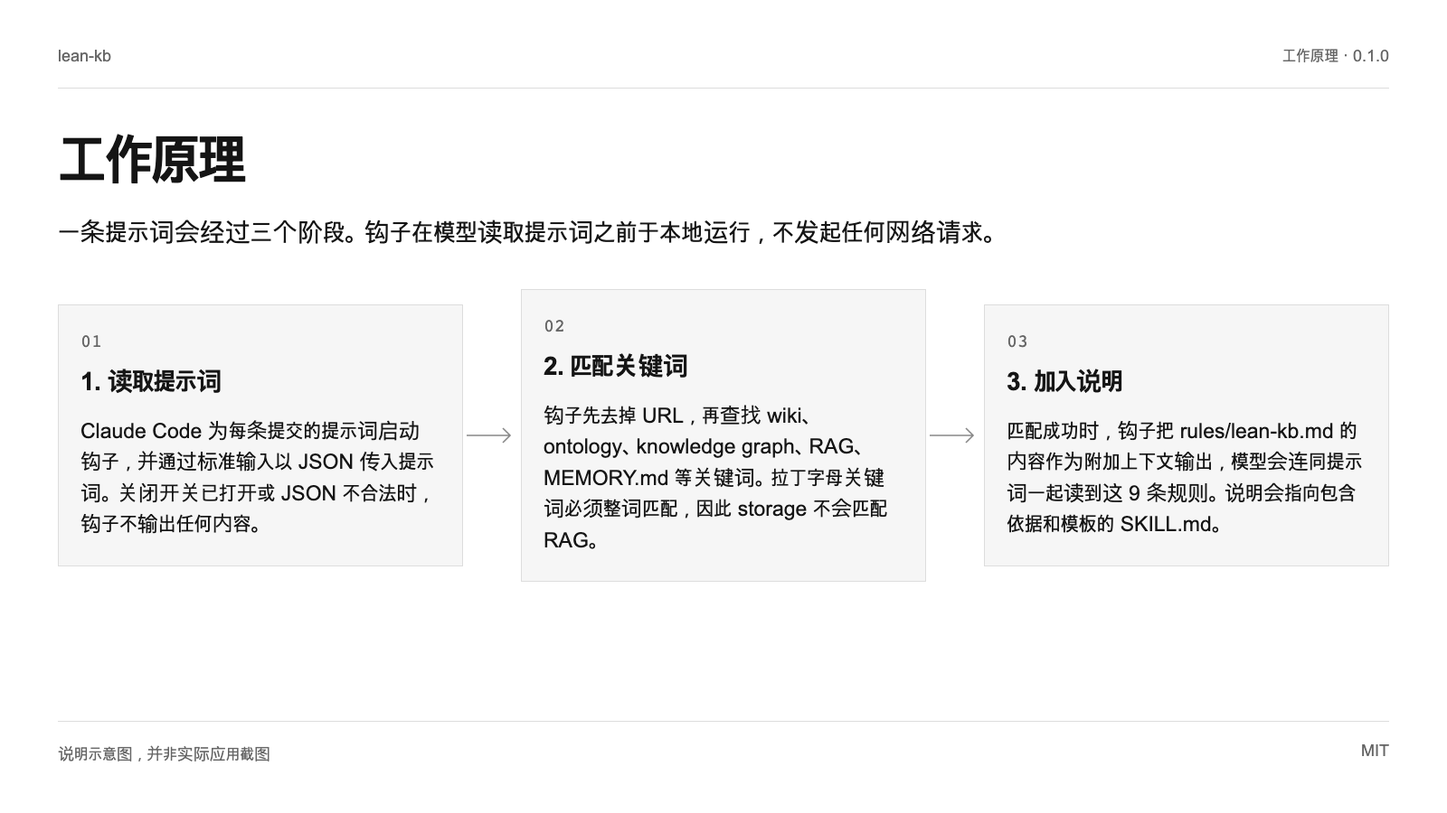
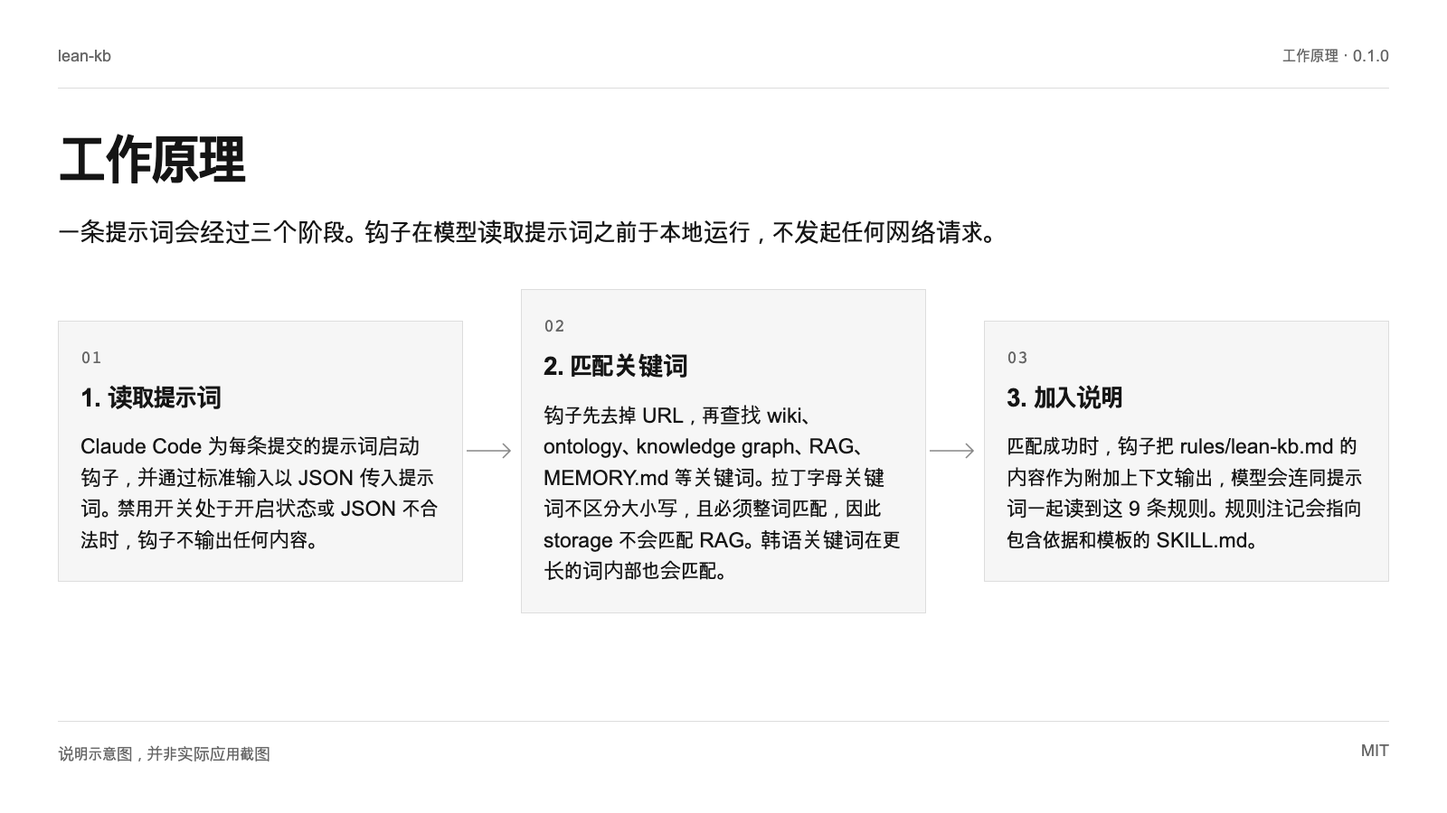
fix: apply the independent review to the hook and the documents
Why: a reviewer that did not write the files found these defects.
- The hook matched a keyword inside a host notification block.
- Plural keywords such as "wikis" did not match.
- The rule 2 row mixed two tests with different conditions.
- The rule 7 row said "measured", but the talk only simulated it.
- The note said that it does not reach subagents. That is not tested.
- The project flag file had no test.

Changed region(s): [[0.0312, 0.4356, 0.3125, 0.6844], [0.6562, 0.4044, 0.9375, 0.6844], [0.375, 0.5911, 0.625, 0.7156]]

diff --git a/assets/showcase.html b/assets/showcase.html
@@ -1,3 +1,3 @@
 <!doctype html><html lang="en"><head><meta charset="utf-8"><title>lean-kb · GitHub showcase</title><style>
 *{box-sizing:border-box}body{margin:0;background:#eee;color:#151515;font-family:Arial,"Noto Sans CJK KR","Apple SD Gothic Neo","Hiragino Kaku Gothic ProN","PingFang SC",sans-serif}.board{background:#fff;position:relative;overflow:hidden;margin:24px auto;display:flex;flex-direction:column;padding:52px 64px}.wide{width:1600px;height:900px}.og{width:1200px;height:630px;padding:36px 48px}.square{width:1200px;height:1200px;padding:52px 64px}header,footer{display:flex;justify-content:space-between;gap:24px;color:#666;font-size:18px}header{padding-bottom:24px;border-bottom:1px solid #ddd}footer{margin-top:auto;padding-top:22px;border-top:1px solid #ddd}main{padding-top:42px}h1,h2,h3,p{margin:0;overflow-wrap:anywhere;word-break:normal}h1{font-size:86px;letter-spacing:-3px;line-height:1.12}h2{font-size:62px;letter-spacing:-2px;line-height:1.22}h3{font-size:30px;line-height:1.3;letter-spacing:-.5px}.lead{margin-top:26px;font-size:34px;line-height:1.45;max-width:1350px}.features{display:grid;grid-template-columns:repeat(3,1fr);gap:40px;margin-top:58px}.feature{padding-top:24px;border-top:1px solid #bbb}.feature small,.flow small{font-family:monospace;font-size:20px;color:#666}.feature h3{margin-top:12px}.feature p{margin-top:16px;font-size:23px;line-height:1.55}.intro{margin-top:22px;font-size:28px;line-height:1.45;max-width:1350px}.flow{display:grid;grid-template-columns:1fr 64px 1fr 64px 1fr;align-items:center;margin-top:42px}.flow section{min-height:288px;padding:28px 24px;background:#f6f6f6;border:1px solid #ddd}.flow h3{margin-top:16px;font-size:28px}.flow p{margin-top:18px;font-size:23px;line-height:1.5}.flow.parallel{grid-template-columns:repeat(3,1fr);gap:36px}.arrow{width:64px;color:#888}.og main{padding-top:34px}.og h1{font-size:70px}.og .lead{font-size:28px;margin-top:22px}.og-benefits{display:flex;gap:26px;flex-wrap:wrap;margin-top:38px;font-size:21px}.og-benefits span{padding-top:12px;border-top:1px solid #aaa}.og header,.og footer{font-size:15px}.square main{padding-top:52px}.index{font:22px monospace;color:#666}.square h2{margin-top:30px;font-size:66px}.gallery-lead{font-size:34px;line-height:1.55;margin-top:28px}.detail{margin-top:44px;padding:30px;background:#f6f6f6;border:1px solid #ddd}.detail h3{font-size:30px}.detail p{font-size:28px;line-height:1.55;margin-top:18px}.source{font:18px monospace;color:#666;margin-top:32px}footer span{white-space:nowrap}html:lang(ko) :is(h1,h2,h3,p){word-break:keep-all;overflow-wrap:break-word}
-</style></head><body><article class="board wide hero" data-board="hero"><header><span>lean-kb</span><span>Why use it · 0.1.0</span></header><main><h1>lean-kb</h1><p class="lead">A Claude Code hook and skill that adds nine knowledge-base design rules to the context when a prompt names a wiki, an ontology, or a RAG index.</p><div class="features"><section class="feature"><small>01</small><h3>The rules arrive when the task starts</h3><p>The hook reads each prompt. If it names a wiki, an ontology, a knowledge graph, a RAG index, or a memory index, the hook adds a nine-rule note to the context. For other prompts it prints nothing.</p></section><section class="feature"><small>02</small><h3>Each rule shows its evidence and its limits</h3><p>SKILL.md has one table row for each rule: the result in the talk, the scope, and a status. Two of the nine rules are marked as inference. The gate fails when a document states a measured number that is not in evidence/facts.md.</p></section><section class="feature"><small>03</small><h3>Small, local, and easy to turn off</h3><p>The hook uses only the Python standard library. It uses no network, writes no file, and does not log the prompt. It always exits with code 0. One environment variable or one flag file turns it off.</p></section></div></main><footer>Explanatory diagram, not an application screenshot<span>MIT</span></footer></article><article class="board wide architecture" data-board="architecture"><header><span>lean-kb</span><span>How it works · 0.1.0</span></header><main><h2>How it works</h2><p class="intro">One prompt passes three stages. The hook runs locally before the model reads the prompt. It makes no network call.</p><div class="flow "><section><small>01</small><h3>1. Read the prompt</h3><p>Claude Code starts the hook for each submitted prompt and passes the prompt as JSON on standard input. If a disable switch is on, or the input is not valid JSON, the hook prints nothing.</p></section><svg class="arrow" viewBox="0 0 80 40" aria-hidden="true"><path d="M5 20H65M55 10L65 20L55 30" fill="none" stroke="currentColor" stroke-width="2"/></svg><section><small>02</small><h3>2. Match the keywords</h3><p>The hook removes URLs and then looks for a keyword such as wiki, ontology, knowledge graph, RAG, or MEMORY.md. A Latin keyword must be a full word, so the word storage does not match RAG.</p></section><svg class="arrow" viewBox="0 0 80 40" aria-hidden="true"><path d="M5 20H65M55 10L65 20L55 30" fill="none" stroke="currentColor" stroke-width="2"/></svg><section><small>03</small><h3>3. Add the note</h3><p>On a match, the hook prints the text of rules/lean-kb.md as additional context. The model reads the nine rules with the prompt. The note points to SKILL.md for the evidence and the templates.</p></section></div></main><footer>Explanatory diagram, not an application screenshot<span>MIT</span></footer></article><article class="board og" data-board="og"><header><span>lean-kb</span><span>Why use it · 0.1.0</span></header><main><h1>lean-kb</h1><p class="lead">A Claude Code hook and skill that adds nine knowledge-base design rules to the context when a prompt names a wiki, an ontology, or a RAG index.</p><div class="og-benefits"><span>The rules arrive when the task starts</span><span>Each rule shows its evidence and its limits</span><span>Small, local, and easy to turn off</span></div></main><footer>Explanatory diagram, not an application screenshot<span>MIT</span></footer></article><article class="board square gallery g1" data-board="gallery-1"><header><span>lean-kb</span><span>Why use it · 0.1.0</span></header><main><small class="index">01 / 03</small><h2>The rules arrive when the task starts</h2><p class="gallery-lead">The hook reads each prompt. If it names a wiki, an ontology, a knowledge graph, a RAG index, or a memory index, the hook adds a nine-rule note to the context. For other prompts it prints nothing.</p><div class="detail"><h3>1. Read the prompt</h3><p>Claude Code starts the hook for each submitted prompt and passes the prompt as JSON on standard input. If a disable switch is on, or the input is not valid JSON, the hook prints nothing.</p></div><p class="source">ev-hook-match · ev-hook-main · ev-note</p></main><footer>Explanatory diagram, not an application screenshot<span>MIT</span></footer></article><article class="board square gallery g2" data-board="gallery-2"><header><span>lean-kb</span><span>Why use it · 0.1.0</span></header><main><small class="index">02 / 03</small><h2>Each rule shows its evidence and its limits</h2><p class="gallery-lead">SKILL.md has one table row for each rule: the result in the talk, the scope, and a status. Two of the nine rules are marked as inference. The gate fails when a document states a measured number that is not in evidence/facts.md.</p><div class="detail"><h3>2. Match the keywords</h3><p>The hook removes URLs and then looks for a keyword such as wiki, ontology, knowledge graph, RAG, or MEMORY.md. A Latin keyword must be a full word, so the word storage does not match RAG.</p></div><p class="source">ev-rules-table · ev-gate · ev-numbers · ev-facts</p></main><footer>Explanatory diagram, not an application screenshot<span>MIT</span></footer></article><article class="board square gallery g3" data-board="gallery-3"><header><span>lean-kb</span><span>Why use it · 0.1.0</span></header><main><small class="index">03 / 03</small><h2>Small, local, and easy to turn off</h2><p class="gallery-lead">The hook uses only the Python standard library. It uses no network, writes no file, and does not log the prompt. It always exits with code 0. One environment variable or one flag file turns it off.</p><div class="detail"><h3>3. Add the note</h3><p>On a match, the hook prints the text of rules/lean-kb.md as additional context. The model reads the nine rules with the prompt. The note points to SKILL.md for the evidence and the templates.</p></div><p class="source">ev-hook-contract · ev-hook-disable · ev-test</p></main><footer>Explanatory diagram, not an application screenshot<span>MIT</span></footer></article></body></html>
+</style></head><body><article class="board wide hero" data-board="hero"><header><span>lean-kb</span><span>Why use it · 0.1.0</span></header><main><h1>lean-kb</h1><p class="lead">A Claude Code hook and skill that adds nine knowledge-base design rules to the context when a prompt names a wiki, an ontology, or a RAG index.</p><div class="features"><section class="feature"><small>01</small><h3>The rules arrive when the task starts</h3><p>The hook reads each prompt. If it names a wiki, an ontology, a knowledge graph, a RAG index, or a memory index, the hook adds a nine-rule note to the context. For other prompts it prints nothing.</p></section><section class="feature"><small>02</small><h3>Each rule shows its evidence and its limits</h3><p>SKILL.md has one table row for each rule: the result in the talk, the scope, and a status. Two of the nine rules are marked as inference. The gate fails when a document states a measured number that is not in evidence/facts.md.</p></section><section class="feature"><small>03</small><h3>Small, local, and easy to turn off</h3><p>The hook uses only the Python standard library. It uses no network, writes no file, and does not log the prompt. It always exits with code 0. One environment variable or one flag file turns it off.</p></section></div></main><footer>Explanatory diagram, not an application screenshot<span>MIT</span></footer></article><article class="board wide architecture" data-board="architecture"><header><span>lean-kb</span><span>How it works · 0.1.0</span></header><main><h2>How it works</h2><p class="intro">One prompt passes three stages. The hook runs locally before the model reads the prompt. It makes no network call.</p><div class="flow "><section><small>01</small><h3>1. Read the prompt</h3><p>Claude Code starts the hook for each submitted prompt and passes the prompt as JSON on standard input. If a disable switch is on, or the input is not valid JSON, the hook prints nothing.</p></section><svg class="arrow" viewBox="0 0 80 40" aria-hidden="true"><path d="M5 20H65M55 10L65 20L55 30" fill="none" stroke="currentColor" stroke-width="2"/></svg><section><small>02</small><h3>2. Match the keywords</h3><p>The hook removes URLs and then looks for a keyword such as wiki, ontology, knowledge graph, RAG, or MEMORY.md. A Latin keyword must be a full word and the match ignores case, so the word storage does not match RAG. A Korean keyword also matches inside a longer word.</p></section><svg class="arrow" viewBox="0 0 80 40" aria-hidden="true"><path d="M5 20H65M55 10L65 20L55 30" fill="none" stroke="currentColor" stroke-width="2"/></svg><section><small>03</small><h3>3. Add the note</h3><p>On a match, the hook prints the text of rules/lean-kb.md as additional context. The model reads the nine rules with the prompt. The note points to SKILL.md for the evidence and the templates.</p></section></div></main><footer>Explanatory diagram, not an application screenshot<span>MIT</span></footer></article><article class="board og" data-board="og"><header><span>lean-kb</span><span>Why use it · 0.1.0</span></header><main><h1>lean-kb</h1><p class="lead">A Claude Code hook and skill that adds nine knowledge-base design rules to the context when a prompt names a wiki, an ontology, or a RAG index.</p><div class="og-benefits"><span>The rules arrive when the task starts</span><span>Each rule shows its evidence and its limits</span><span>Small, local, and easy to turn off</span></div></main><footer>Explanatory diagram, not an application screenshot<span>MIT</span></footer></article><article class="board square gallery g1" data-board="gallery-1"><header><span>lean-kb</span><span>Why use it · 0.1.0</span></header><main><small class="index">01 / 03</small><h2>The rules arrive when the task starts</h2><p class="gallery-lead">The hook reads each prompt. If it names a wiki, an ontology, a knowledge graph, a RAG index, or a memory index, the hook adds a nine-rule note to the context. For other prompts it prints nothing.</p><div class="detail"><h3>1. Read the prompt</h3><p>Claude Code starts the hook for each submitted prompt and passes the prompt as JSON on standard input. If a disable switch is on, or the input is not valid JSON, the hook prints nothing.</p></div><p class="source">ev-hook-match · ev-hook-main · ev-note</p></main><footer>Explanatory diagram, not an application screenshot<span>MIT</span></footer></article><article class="board square gallery g2" data-board="gallery-2"><header><span>lean-kb</span><span>Why use it · 0.1.0</span></header><main><small class="index">02 / 03</small><h2>Each rule shows its evidence and its limits</h2><p class="gallery-lead">SKILL.md has one table row for each rule: the result in the talk, the scope, and a status. Two of the nine rules are marked as inference. The gate fails when a document states a measured number that is not in evidence/facts.md.</p><div class="detail"><h3>2. Match the keywords</h3><p>The hook removes URLs and then looks for a keyword such as wiki, ontology, knowledge graph, RAG, or MEMORY.md. A Latin keyword must be a full word and the match ignores case, so the word storage does not match RAG. A Korean keyword also matches inside a longer word.</p></div><p class="source">ev-rules-table · ev-gate · ev-numbers · ev-facts</p></main><footer>Explanatory diagram, not an application screenshot<span>MIT</span></footer></article><article class="board square gallery g3" data-board="gallery-3"><header><span>lean-kb</span><span>Why use it · 0.1.0</span></header><main><small class="index">03 / 03</small><h2>Small, local, and easy to turn off</h2><p class="gallery-lead">The hook uses only the Python standard library. It uses no network, writes no file, and does not log the prompt. It always exits with code 0. One environment variable or one flag file turns it off.</p><div class="detail"><h3>3. Add the note</h3><p>On a match, the hook prints the text of rules/lean-kb.md as additional context. The model reads the nine rules with the prompt. The note points to SKILL.md for the evidence and the templates.</p></div><p class="source">ev-hook-contract · ev-hook-disable · ev-test</p></main><footer>Explanatory diagram, not an application screenshot<span>MIT</span></footer></article></body></html>

diff --git a/hooks/lean_kb_hook.py b/hooks/lean_kb_hook.py
@@ -23,7 +23,8 @@ import sys
 KEYWORDS = (
     "온톨로지", "위키", "지식 그래프", "지식그래프", "지식 베이스", "지식베이스",
     "세컨드 브레인", "기억 목차", "메모리 목차",
-    "ontology", "wiki", "knowledge graph", "knowledge base", "second brain",
+    "ontology", "ontologies", "wiki", "wikis", "knowledge graph", "knowledge graphs",
+    "knowledge base", "knowledge bases", "second brain",
     "MEMORY.md", "RAG",
 )
 # No note for a shell escape, or for a note that a side agent adds (not a user request).
@@ -31,6 +32,8 @@ KEYWORDS = (
 EXCLUDE = re.compile(r"^\s*(?:!|Here is a note offered by a side agent)")
 
 URL = re.compile(r"(?:https?://|www\.)\S+", re.IGNORECASE)
+# Text that the host adds around a prompt is not a user request.
+HOST_BLOCK = re.compile(r"<(task-notification|system-reminder)>.*?</\1>", re.DOTALL)
 
 
 def _is_latin(word):
@@ -54,9 +57,10 @@ def matches(prompt):
     """True when the prompt asks for knowledge-base work."""
     if not isinstance(prompt, str) or not prompt.strip():
         return False
-    if EXCLUDE.search(prompt):
+    text = HOST_BLOCK.sub(" ", prompt)
+    if EXCLUDE.search(text):
         return False
-    return PATTERN.search(URL.sub(" ", prompt)) is not None
+    return PATTERN.search(URL.sub(" ", text)) is not None
 
 
 def disabled(env):

diff --git a/README.zh.md b/README.zh.md
@@ -12,9 +12,9 @@
 
 | | |
 | --- | --- |
-| 规则在任务开始时送达 | 提示词中出现 wiki、本体、知识图谱、RAG 索引或记忆索引时，钩子把写有 9 条规则的说明加入上下文；其他提示词不输出任何内容。 |
+| 规则在任务开始时送达 | 提示词中出现 wiki、本体、知识图谱、RAG 索引或记忆索引时，钩子把写有 9 条规则的规则注记加入上下文；其他提示词不输出任何内容。 |
 | 每条规则都附有依据与局限 | SKILL.md 为每条规则列出演讲中的结果、测量范围和状态，9 条中有 2 条标注为推论。文档中若出现 evidence/facts.md 里没有的测量数值，检查脚本（gate）会失败。 |
-| 小巧、仅在本地运行、易于关闭 | 钩子只使用 Python 标准库：不访问网络，不写文件，不记录提示词，并始终以退出码 0 结束。设置一个环境变量或放置一个标志文件即可关闭。 |
+| 小巧、钩子在本地运行、易于关闭 | 钩子只使用 Python 标准库：不访问网络，不写文件，不记录提示词，并始终以退出码 0 结束。设置一个环境变量或放置一个标志文件即可关闭。 |
 
 ## 快速开始
 
@@ -36,21 +36,21 @@ printf '%s' '{"prompt":"design a wiki index"}' | python3 ~/.claude/skills/lean-k
 
 ### 1. 读取提示词
 
-Claude Code 为每条提交的提示词启动钩子，并通过标准输入以 JSON 传入提示词。关闭开关已打开或 JSON 不合法时，钩子不输出任何内容。
+Claude Code 为每条提交的提示词启动钩子，并通过标准输入以 JSON 传入提示词。禁用开关处于开启状态或 JSON 不合法时，钩子不输出任何内容。
 
 ### 2. 匹配关键词
 
-钩子先去掉 URL，再查找 wiki、ontology、knowledge graph、RAG、MEMORY.md 等关键词。拉丁字母关键词必须整词匹配，因此 storage 不会匹配 RAG。
+钩子先去掉 URL，再查找 wiki、ontology、knowledge graph、RAG、MEMORY.md 等关键词。拉丁字母关键词不区分大小写，且必须整词匹配，因此 storage 不会匹配 RAG。韩语关键词在更长的词内部也会匹配。
 
 ### 3. 加入说明
 
-匹配成功时，钩子把 rules/lean-kb.md 的内容作为附加上下文输出，模型会连同提示词一起读到这 9 条规则。说明会指向包含依据和模板的 SKILL.md。
+匹配成功时，钩子把 rules/lean-kb.md 的内容作为附加上下文输出，模型会连同提示词一起读到这 9 条规则。规则注记会指向包含依据和模板的 SKILL.md。
 
 ## 使用场景
 
 ### 规划团队 wiki 的索引
 
-当你请求设计 wiki 结构时，说明会告诉模型：页面正文放在每页一行的索引之后，规则放在始终加载的部分，并说明始终加载内容的大小。
+当你请求设计 wiki 结构时，规则注记会告诉模型：页面正文放在每页一行的索引之后，规则放在始终加载的部分，并说明始终加载内容的大小。
 
 ### 整理 Claude Code 的记忆索引
 
@@ -58,13 +58,13 @@ Claude Code 为每条提交的提示词启动钩子，并通过标准输入以 J
 
 ### 先定检查标准，再修改本体模式
 
-当你请求修改本体或知识图谱时，说明会要求：每个实体只有一个规范节点，变更的事实写成带日期的条目，并在看到结果之前先定义检查方法。规范节点这条规则在 SKILL.md 中标注为推论。
+当你请求修改本体或知识图谱时，规则注记会要求：每个实体只有一个规范节点，变更的事实写成带日期的条目，并在看到结果之前先定义检查方法。规范节点这条规则在 SKILL.md 中标注为推论。
 
 ![规则在任务开始时送达: 说明示意图，并非实际应用截图](assets/zh/gallery-1.png)
 
 ![每条规则都附有依据与局限: 说明示意图，并非实际应用截图](assets/zh/gallery-2.png)
 
-![小巧、仅在本地运行、易于关闭: 说明示意图，并非实际应用截图](assets/zh/gallery-3.png)
+![小巧、钩子在本地运行、易于关闭: 说明示意图，并非实际应用截图](assets/zh/gallery-3.png)
 
 ## 限制与隐私
 
@@ -72,19 +72,19 @@ Claude Code 为每条提交的提示词启动钩子，并通过标准输入以 J
 
 - 本项目是独立整理的摘要，不是 NAVER 的项目，也不是演讲中的 Haema 引擎。它不实现检索、去重和会话切分（rollover）。
 
-- 钩子只匹配关键词。不含关键词的知识库请求不会收到说明，这类请求所占的比例尚未测量。Obsidian、memory、CLAUDE.md、graph 更常匹配到无关的提示词，因此没有列为关键词。
+- 钩子只匹配关键词。不含关键词的知识库请求不会收到规则注记，这类请求所占的比例尚未测量。Obsidian、memory、CLAUDE.md、graph 更常匹配到无关的提示词，因此没有列为关键词。以 `!` 开头或以 side-agent 注记开头的提示词也不会收到规则注记。
 
-- 钩子不保存状态。每条匹配的提示词都会加入完整的说明，因此成本等于说明的大小乘以一次会话中匹配的提示词数量。
+- 钩子不保存状态。每条匹配的提示词都会加入完整的规则注记，因此成本等于注记的大小乘以一次会话中匹配的提示词数量。这种重复与注记中的规则 4 相悖，目前没有实现会话级去重。
 
-- 钩子在用户提交提示词时运行。子代理的提示词来自父代理，因此说明预计不会传递给子代理；这一行为尚未测试。如果把知识库工作委派出去，请把 rules/lean-kb.md 的路径交给子代理。
+- 钩子在用户提交提示词时运行。子代理的提示词来自父代理，因此规则注记预计不会传递给子代理；这一行为尚未测试。如果把知识库工作委派出去，请把 rules/lean-kb.md 的路径交给子代理。
 
 - 自测和检查脚本（gate）在 macOS 上使用 bash 和 Python 3 运行过，尚未在 Linux 和 Windows 上测试。gate 中的文体检查依赖另一个独立项目 asd-ste100 的 linter；没有它时，除非设置 LEAN_KB_SKIP_STE=1，否则该项检查会失败。
 
 ## 验证状态
 
-- **已验证运行**: 已运行钩子自测，所有用例均通过：应收到说明的提示词、不应有任何输出的提示词、两种关闭开关、规则文件缺失的情况，以及确认提示词内容不会出现在输出中的检查。
-- **已验证运行**: 主检查脚本（master gate）以退出码 0 结束。它会编译 Python 文件、运行自测、检查规则说明的大小、运行文体 linter，并将 SKILL.md 与各 README 中的测量数值同 evidence/facts.md 逐一比对。
-- **已验证运行**: 在一次使用临时设置文件的 Claude Code 会话中，wiki 提示词收到了说明，无关的提示词没有收到。这只是在一台机器上的一次运行结果。
+- **已验证运行**: 已运行钩子自测，所有用例均通过：应收到规则注记的提示词、不应有任何输出的提示词、两种关闭开关、规则文件缺失的情况，以及确认提示词内容不会出现在输出中的检查。
+- **已验证运行**: 主检查脚本（master gate）以退出码 0 结束。它会编译 Python 文件、运行自测、检查规则注记的大小、运行文体 linter，并将 SKILL.md 与各 README 中的测量数值同 evidence/facts.md 逐一比对。
+- **已验证运行**: 在一次使用临时设置文件的 Claude Code 会话中，wiki 提示词收到了规则注记，无关的提示词没有收到。这只是在一台机器上的一次运行结果。
 - **文档说明**: SKILL.md 中的数值抄自对该演讲的摘要文件。从幻灯片读取的数值与仅凭音频确认的数值分别作了标注。仅凭音频确认的数值来自机器转写，可能有误。
 
 ## 下一步
@@ -97,19 +97,19 @@ Claude Code 为每条提交的提示词启动钩子，并通过标准输入以 J
 [JSON](docs/showcase/sources.json)
 
 - `ev-hook-contract`: `hooks/lean_kb_hook.py`, L3–L17 (已检查代码)
-- `ev-hook-match`: `hooks/lean_kb_hook.py`, L23–L59 (已检查代码)
-- `ev-hook-disable`: `hooks/lean_kb_hook.py`, L62–L66 (已检查代码)
-- `ev-hook-main`: `hooks/lean_kb_hook.py`, L76–L93 (已检查代码)
+- `ev-hook-match`: `hooks/lean_kb_hook.py`, L23–L63 (已检查代码)
+- `ev-hook-disable`: `hooks/lean_kb_hook.py`, L66–L70 (已检查代码)
+- `ev-hook-main`: `hooks/lean_kb_hook.py`, L80–L97 (已检查代码)
 - `ev-note`: `rules/lean-kb.md`, L1–L13 (文档说明)
 - `ev-rules-table`: `SKILL.md`, L18–L34 (文档说明)
 - `ev-measure`: `SKILL.md`, L36–L46 (文档说明)
-- `ev-templates`: `SKILL.md`, L48–L91 (文档说明)
+- `ev-templates`: `SKILL.md`, L48–L67 (文档说明)
 - `ev-register`: `SKILL.md`, L93–L101 (文档说明)
-- `ev-hook-behavior`: `SKILL.md`, L103–L111 (文档说明)
-- `ev-live-check`: `SKILL.md`, L112–L112 (已验证运行)
-- `ev-subagent`: `SKILL.md`, L114–L116 (文档说明)
-- `ev-limits`: `SKILL.md`, L118–L126 (文档说明)
-- `ev-test`: `hooks/lean_kb_hook.test.sh`, L1–L74 (已验证运行)
+- `ev-hook-behavior`: `SKILL.md`, L103–L114 (文档说明)
+- `ev-live-check`: `SKILL.md`, L115–L115 (已验证运行)
+- `ev-subagent`: `SKILL.md`, L117–L119 (文档说明)
+- `ev-limits`: `SKILL.md`, L121–L130 (文档说明)
+- `ev-test`: `hooks/lean_kb_hook.test.sh`, L1–L88 (已验证运行)
 - `ev-gate`: `gates/verify_lean_kb.sh`, L1–L67 (已验证运行)
 - `ev-numbers`: `scripts/check_numbers.py`, L2–L10 (已验证运行)
 - `ev-facts`: `evidence/facts.md`, L1–L5 (文档说明)

diff --git a/SKILL.md b/SKILL.md
@@ -21,13 +21,13 @@ All values come from the talk. Each value has the scope of one environment and s
 
 | Rule | Result in the talk | Scope and hedge | Status |
 |---|---|---|---|
-| 1. Count the always-loaded size multiplied by the number of requests. | Of 4k retrieved tokens, 13.8% held the answer evidence. One insert of 4k cost 10.3 times one answer call over a session. | 84 development questions from the speaker. The 10.3 value is a replay of one user record, with a session range of 7.4 to 12.6 times. | measured in the talk |
-| 2. Keep facts behind an index. | A core index with search for the rest cut cost by 51.7%. Original questions changed by -0.2 points. Without the index, with a location hint and Grep, the answer rate changed by +0.8 points. | The cost value is a conversion from one environment. Reworded questions fell short at -3.2 points or gave no decision. The talk reports mixed results by condition. | measured in the talk |
+| 1. Count the always-loaded size multiplied by the number of requests. | Of 4k retrieved tokens, 13.8% held the answer evidence. One insert of 4k cost 10.3 times the cost of one answer call. That value is a session average and includes the answer call. | 84 development questions from the speaker. The 10.3 value is a replay of one user record, with a session range of 7.4 to 12.6 times. | measured in the talk |
+| 2. Keep facts behind an index. | Test A, a core index with search for the rest: cost fell by 51.7%, and 607 original questions changed by -0.2 points. Test B, no index, with a location hint and Grep: 376 reworded questions changed by +0.8 points. | The cost value is a conversion from one environment. In test A, reworded questions fell short at -3.2 points or gave no decision. In test B, the interval is -1.4 to +2.9, and the result for original questions changed with the scoring method. The two tests have different conditions. | measured in the talk |
 | 3. Keep rules in the always-loaded part, above the truncation limit. | The model opened the rule body in 16 of 52 runs when a rule line was in the index. It opened the body in 0 of 52 runs when the line was not in the index. A rule that the limit cut gave a violation rate of 53.8%. Always-loaded rules gave 23.1%. | 26 same tasks in a separate test. The CLI shows a truncation warning, but the model did not find the cut rule by itself. The rule block makes the first request 2.1 times larger. A violation rate of 23.1% remains. | measured in the talk |
 | 4. Do not load the same evidence two times in one session. | Dedupe in a session cut the cost of a session by 38.7%. The answer rate changed from 81.4% to 81.7%, inside the set margin. | LoCoMo, 69 sessions, 690 turns. The test compared against a method that keeps the evidence in the history. The combination with sentence selection is not tested. | measured in the talk |
 | 5. Add a dated entry for a changed fact. Put the newest first. | Stacking entries with dates gave an update answer rate of 98.3%. Two merge methods gave 85.0% and 86.7%. | A synthetic flow of 60 questions. The prompt told the model to read the newest date as the current value. The two merge methods are the speaker's own code. | measured in the talk |
 | 6. Write final values and boundary conditions word for word before a session splits. | A rollover pilot cut input-equivalent tokens by 15.1% (T7) and 55.6% (T8). In an earlier test, a handover note lost one condition, and three runs of three used the wrong comparison. | 2 long tasks, 3 runs each, without search. T7 does not separate from run-to-run variation. A short task gave no gain. | measured in the talk |
-| 7. Change a default only after a check that you defined before you saw the result. Compare with the first baseline. | The first-baseline comparison caught a slow decline in 200 of 200 runs. The step-only comparison passed all four steps in 191 of 200 runs. At 700 questions per step, 43% of runs fail even with equal quality (audio only). | A synthetic case of four steps, each with a 2 point drop. The talk did not connect it to operation. | measured in the talk |
+| 7. Change a default only after a check that you defined before you saw the result. Compare with the first baseline. | The first-baseline comparison caught a slow decline in 200 of 200 runs. The step-only comparison passed all four steps in 191 of 200 runs. At 700 questions per step, 43% of runs fail even with equal quality (audio only). | A synthetic case of four steps, each with a 2 point drop. The talk did not connect it to operation. The talk covers default changes, and the schema part is inference. | simulated in the talk |
 | 8. Write each sentence, list item, and table row with its context. | The talk selected sentences with title, table header, and path as context. It cut inserted tokens by 34.49%, and the answer rate moved from 92.98% to 92.23%. | The test covers retrieval for 399 short Korean fact questions. It does not cover wiki writing. The rule for wiki pages is our inference. | inference for wiki and ontology work |
 | 9. Keep one canonical node for each entity. Put the aliases on that node. | The talk has no result for this rule. | Design inference for ontology work. Check it in the target repository. | inference for wiki and ontology work |
 
@@ -101,11 +101,14 @@ The hook is hooks/lean_kb_hook.py. Register it as a UserPromptSubmit hook. Add t
 A session that is in operation can keep its old hook settings. Start a new session after you register the hook.
 
 - Start condition: the prompt has a keyword from the list KEYWORDS. Latin keywords match as full words. The match ignores case. A URL does not count.
+- Korean keywords also match inside a longer word.
+- The hook adds no note to a prompt that starts with `!` or with a side-agent note. Text inside a host notification block does not count.
 - If no keyword matches, the hook prints nothing.
 - Disable switch 1: set the environment variable LEAN_KB_DISABLE to 1.
-- Disable switch 2: create a file named lean-kb.off in ~/.claude or in the .claude folder of the project.
+- Disable switch 2: create a file named lean-kb.off in ~/.claude or in the .claude folder of the project. The hook finds the project from the environment variable CLAUDE_PROJECT_DIR.
 - The hook keeps no state. It adds the full note to each matching prompt.
 - Cost: the note size multiplied by the number of matching prompts in a session.
+- The repeat of the note is contrary to rule 4. Version 1 has no session dedupe.
 - Calibration: the author checked the keywords against the past prompts of one user. The hook matched less than one percent of them.
 - The words Obsidian, memory, CLAUDE.md, and graph matched unrelated prompts more often. They are not keywords.
 - The share of knowledge-base prompts that the hook does not match is not measured.
@@ -120,7 +123,8 @@ The hook runs on prompts that the user submits. A subagent receives its prompt f
 - The source is one talk, with small samples from one environment. Check each rule in the target repository.
 - The talk did not test the rules on a wiki or an ontology. Rules 8 and 9 are inference.
 - Claude Code loads the first 200 lines or 25 KB of MEMORY.md, the limit that comes first. Other tools can have other limits.
-- Claude Code measures MEMORY.md against these limits. Therefore this skill has no index checker.
+- Korean text uses 3 bytes for each character in UTF-8. Thus a Korean index can reach 25 KB before 200 lines.
+- The Claude Code documentation says that Claude Code measures MEMORY.md against these limits. Therefore this skill has no index checker.
 - This skill is an independent summary. It is not a NAVER project.
 - This skill is not the Haema engine. It only keeps design rules.
 - The self-test and the gate ran on macOS. Linux and Windows are not tested.

diff --git a/README.md b/README.md
@@ -40,7 +40,7 @@ Claude Code starts the hook for each submitted prompt and passes the prompt as J
 
 ### 2. Match the keywords
 
-The hook removes URLs and then looks for a keyword such as wiki, ontology, knowledge graph, RAG, or MEMORY.md. A Latin keyword must be a full word, so the word storage does not match RAG.
+The hook removes URLs and then looks for a keyword such as wiki, ontology, knowledge graph, RAG, or MEMORY.md. A Latin keyword must be a full word and the match ignores case, so the word storage does not match RAG. A Korean keyword also matches inside a longer word.
 
 ### 3. Add the note
 
@@ -72,9 +72,9 @@ Ask for an ontology or knowledge-graph change. The note asks for one canonical n
 
 - This project is an independent summary. It is not a NAVER project, and it is not the Haema engine from the talk. It implements no retrieval, no dedupe, and no session rollover.
 
-- The hook matches keywords only. A knowledge-base request without a keyword gets no note, and the share of such requests is not measured. The words Obsidian, memory, CLAUDE.md, and graph are not keywords, because they matched unrelated prompts more often.
+- The hook matches keywords only. A knowledge-base request without a keyword gets no note, and the share of such requests is not measured. The words Obsidian, memory, CLAUDE.md, and graph are not keywords, because they matched unrelated prompts more often. A prompt that starts with `!` or with a side-agent note also gets no note.
 
-- The hook keeps no state. It adds the full note to each matching prompt, so the cost is the note size multiplied by the number of matching prompts in a session.
+- The hook keeps no state. It adds the full note to each matching prompt, so the cost is the note size multiplied by the number of matching prompts in a session. This repeat is contrary to rule 4 of the note. Session dedupe is not implemented.
 
 - The hook runs on prompts that the user submits. A subagent receives its prompt from the parent agent, so the note is not expected to reach a subagent. This behavior is not tested. If you delegate knowledge-base work, give the subagent the path of rules/lean-kb.md.
 
@@ -97,19 +97,19 @@ Read SKILL.md for the evidence table, the templates, and the three ratios to mea
 [JSON](docs/showcase/sources.json)
 
 - `ev-hook-contract`: `hooks/lean_kb_hook.py`, L3–L17 (Source inspected)
-- `ev-hook-match`: `hooks/lean_kb_hook.py`, L23–L59 (Source inspected)
-- `ev-hook-disable`: `hooks/lean_kb_hook.py`, L62–L66 (Source inspected)
-- `ev-hook-main`: `hooks/lean_kb_hook.py`, L76–L93 (Source inspected)
+- `ev-hook-match`: `hooks/lean_kb_hook.py`, L23–L63 (Source inspected)
+- `ev-hook-disable`: `hooks/lean_kb_hook.py`, L66–L70 (Source inspected)
+- `ev-hook-main`: `hooks/lean_kb_hook.py`, L80–L97 (Source inspected)
 - `ev-note`: `rules/lean-kb.md`, L1–L13 (Documented)
 - `ev-rules-table`: `SKILL.md`, L18–L34 (Documented)
 - `ev-measure`: `SKILL.md`, L36–L46 (Documented)
-- `ev-templates`: `SKILL.md`, L48–L91 (Documented)
+- `ev-templates`: `SKILL.md`, L48–L67 (Documented)
 - `ev-register`: `SKILL.md`, L93–L101 (Documented)
-- `ev-hook-behavior`: `SKILL.md`, L103–L111 (Documented)
-- `ev-live-check`: `SKILL.md`, L112–L112 (Execution verified)
-- `ev-subagent`: `SKILL.md`, L114–L116 (Documented)
-- `ev-limits`: `SKILL.md`, L118–L126 (Documented)
-- `ev-test`: `hooks/lean_kb_hook.test.sh`, L1–L74 (Execution verified)
+- `ev-hook-behavior`: `SKILL.md`, L103–L114 (Documented)
+- `ev-live-check`: `SKILL.md`, L115–L115 (Execution verified)
+- `ev-subagent`: `SKILL.md`, L117–L119 (Documented)
+- `ev-limits`: `SKILL.md`, L121–L130 (Documented)
+- `ev-test`: `hooks/lean_kb_hook.test.sh`, L1–L88 (Execution verified)
 - `ev-gate`: `gates/verify_lean_kb.sh`, L1–L67 (Execution verified)
 - `ev-numbers`: `scripts/check_numbers.py`, L2–L10 (Execution verified)
 - `ev-facts`: `evidence/facts.md`, L1–L5 (Documented)

diff --git a/rules/lean-kb.md b/rules/lean-kb.md
@@ -5,9 +5,9 @@
 4. Do not load the same evidence two times in one session. Refer to it with one line.
 5. For a changed fact, add a dated entry and put the newest entry first. Do not merge old entries into one summary.
 6. Before a long session splits or ends, write the final values and the boundary conditions word for word.
-7. Change a default or a schema only after a check that you defined before you saw the result. Compare with the first baseline.
+7. Change a default or a schema only after a check that you defined before you saw the result. Compare with the first baseline. The schema part is inference.
 8. Inference, not measured: write each sentence, list item, and table row with its context (title, heading path, table header).
 9. Inference, not measured: in an ontology, keep one canonical node for each entity. Put the aliases on that node.
 Basis: one conference talk with small samples from one environment. Check each rule in the target repository before you rely on it.
 Read the evidence, the scope, and the templates before you design: ~/.claude/skills/lean-kb/SKILL.md
-This note does not reach subagents. If you delegate this work, give the subagent this path: ~/.claude/skills/lean-kb/rules/lean-kb.md
+This note is not expected to reach subagents. If you delegate this work, give the subagent this path: ~/.claude/skills/lean-kb/rules/lean-kb.md

diff --git a/CHANGELOG.md b/CHANGELOG.md
@@ -11,4 +11,9 @@
 - 수치 대조 도구(`scripts/check_numbers.py`)와 마스터 게이트(`gates/verify_lean_kb.sh`)
 - 영어, 한국어, 일본어, 중국어 README
 
+### Fixed
+- 수치 대조 도구가 버전 문자열(예: 0.1.0)을 측정 수치로 읽던 문제
+- 호스트가 붙이는 알림 블록 안의 단어에 훅이 반응하던 문제
+- 독립 검토에서 나온 문서 보정: 규칙 2의 시험 조건, 규칙 7의 상태, 끄기 조건, 키워드 일치 설명
+
 [Unreleased]: https://github.com/grow1023/lean-kb/commits/main
